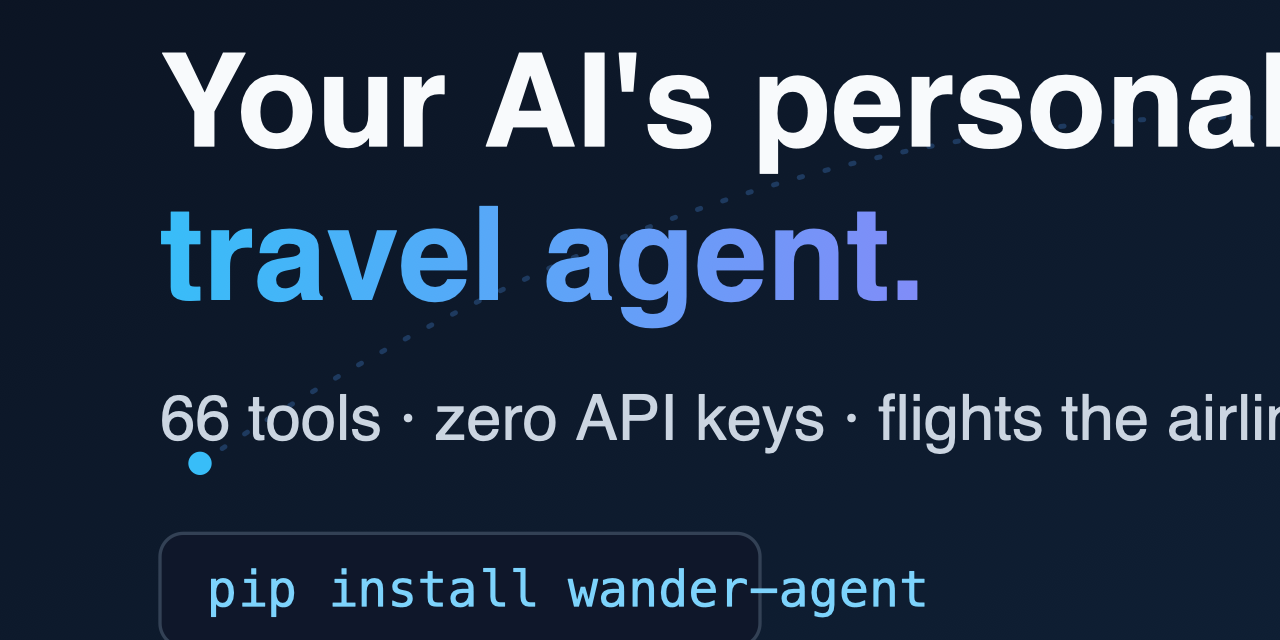
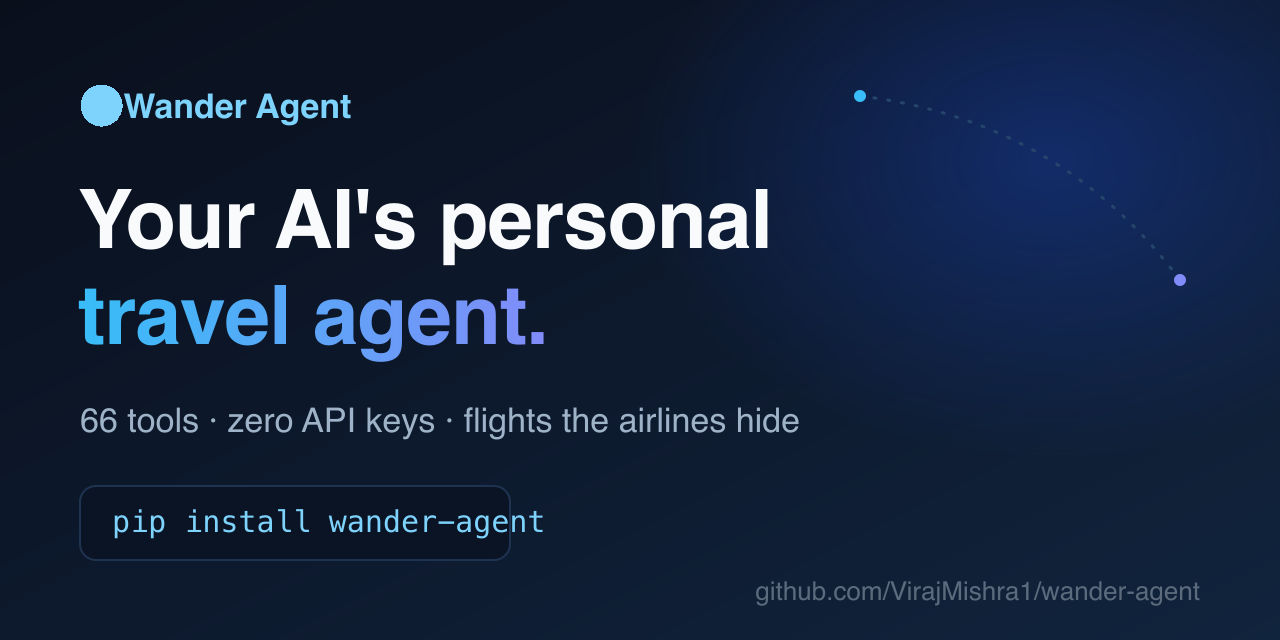
Add hero demo GIF + redesign OG card
- demo/hero.gif: real hidden-city/split-ticket run, ~$8k group savings payoff
- README: hero GIF embedded at top under title block
- assets/og-card: cleaner redesign, properly rendered 1280x640

diff --git a/README.md b/README.md
@@ -17,6 +17,12 @@ pip install wander-agent
 
 [See the launch demo](https://x.com/virajm1shra/status/2059930318359109965)  ·  **⭐ Star this repo if it saves you a layover ✈️**
 
+<br/>
+
+![Wander Agent finding hidden-city and split-ticket fares the airlines hide](demo/hero.gif)
+
+<sub><em>Real run: asked for "every way to save money on DXB→DPS for 4" — it surfaced hidden-city, split-ticket, and nearby-airport fares for ~$8,000 group savings.</em></sub>
+
 </div>
 
 ---